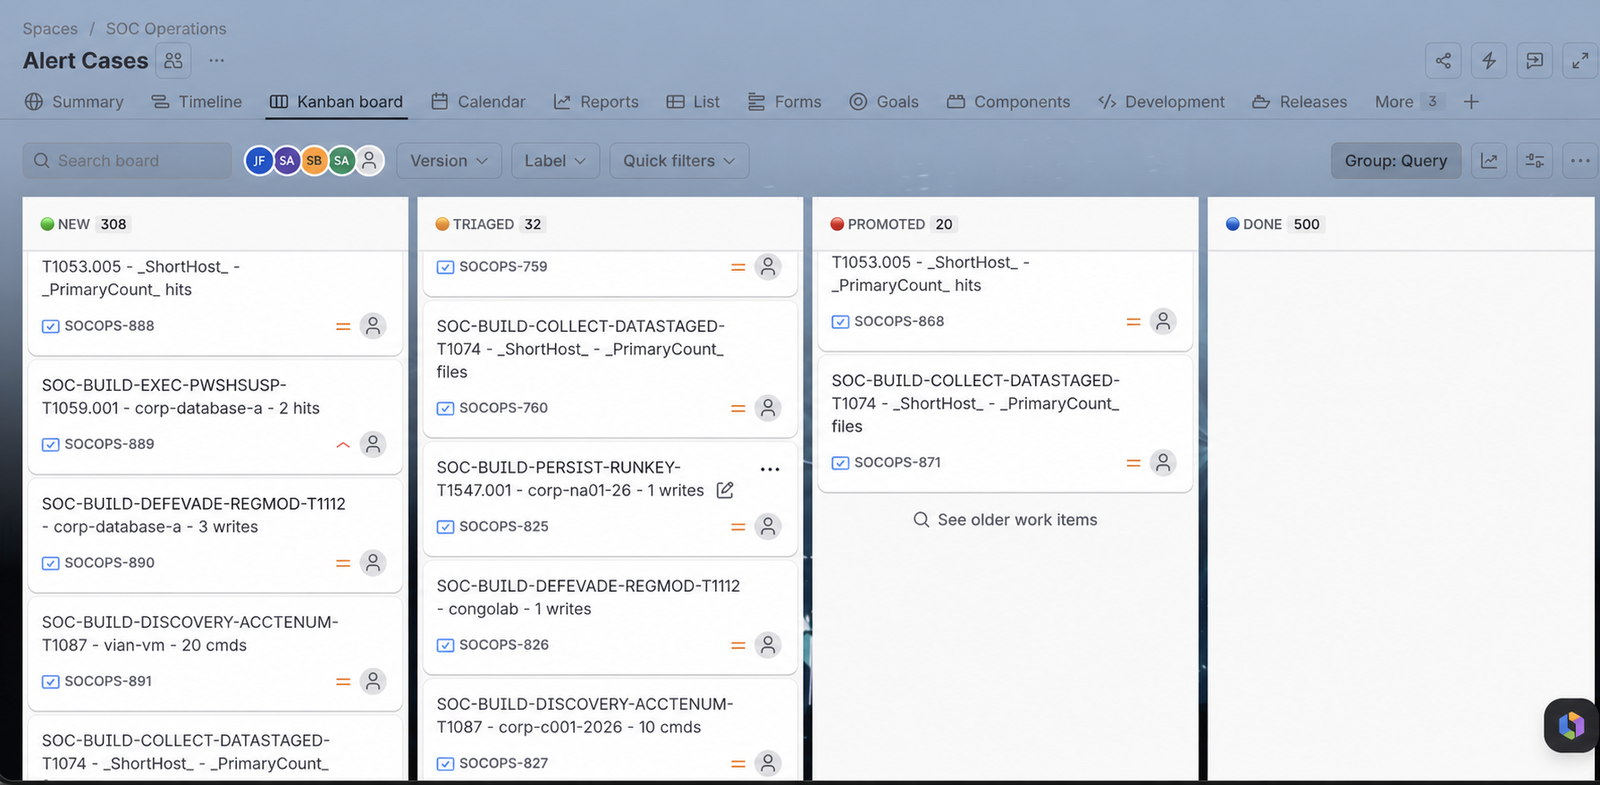
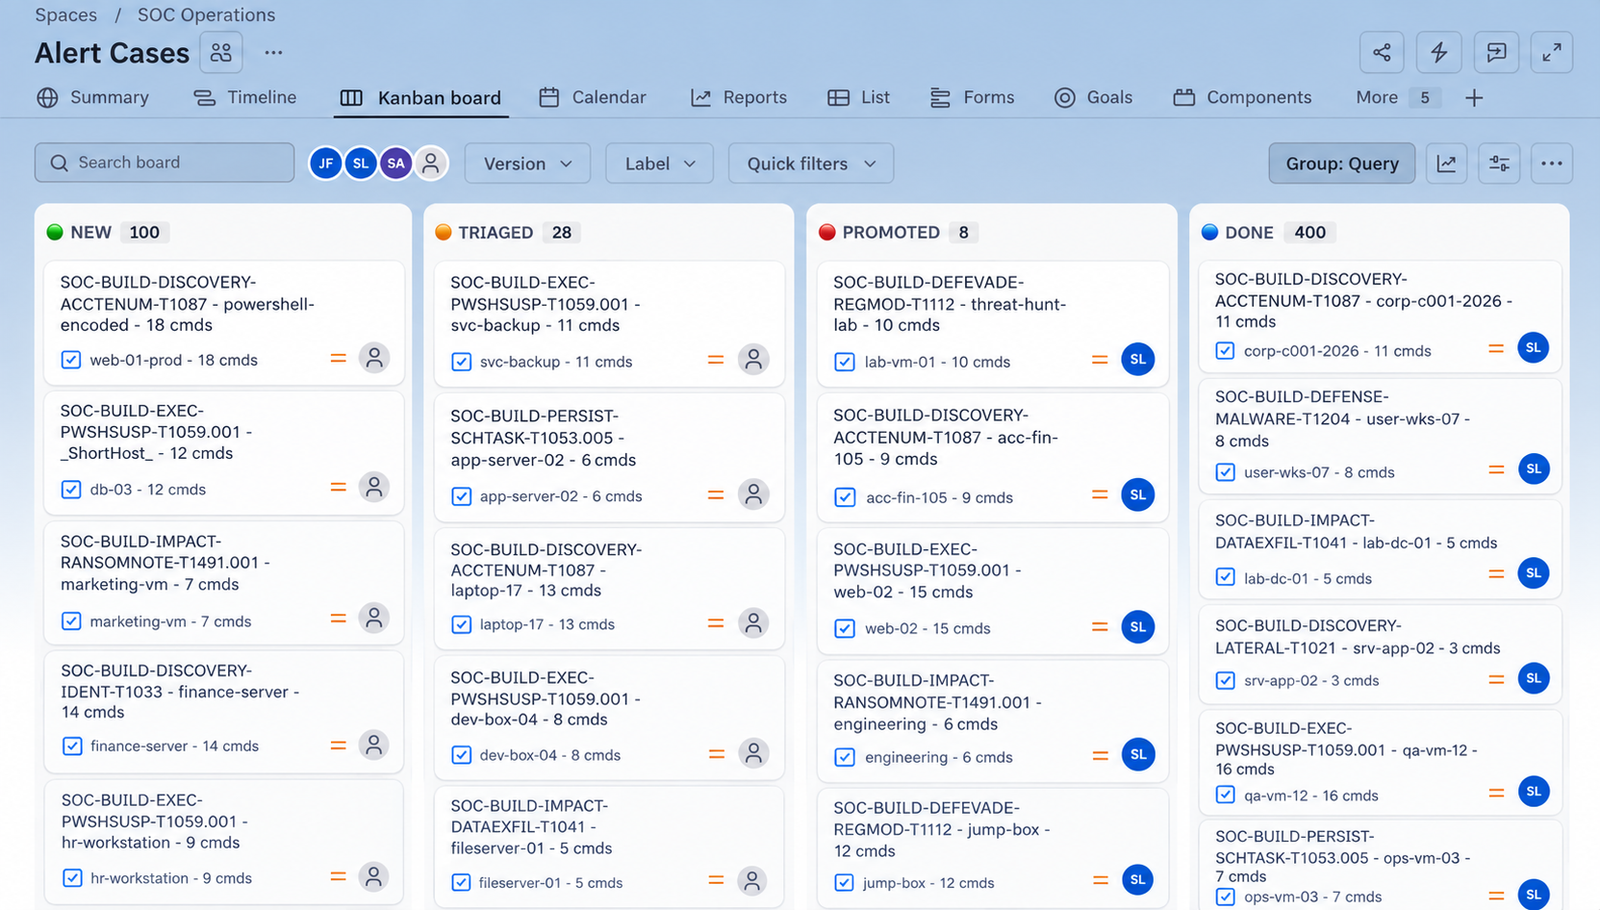
Use current SOCOPS board screenshot

diff --git a/README.md b/README.md
@@ -93,8 +93,8 @@ flowchart LR
 
 **4. The case enters the queue.** New tickets land in status New, in the Intake column of the SOCOPS board, and move through Triage, Investigation, Advisory, and Done.
 
-![Jira Alert Cases board with NEW, TRIAGED, PROMOTED and DONE columns](docs/images/03-jira-alert-case-queue.png)
-<sub>An earlier version of the alert case board, before its columns became Intake / Triage / Investigation / Advisory / Done. Some titles here still show unfilled fields (`_ShortHost_`, `_PrimaryCount_`); I traced that to the Logic App and detections not passing host and count values, and fixed both.</sub>
+![Jira Alert Cases board for the SOCOPS queue](docs/images/03-jira-alert-case-queue.png)
+<sub>The alert case queue on the SOCOPS board. One title still shows an unfilled field (`_ShortHost_`); I traced that to the Logic App and detections not passing host and count values, and fixed both.</sub>
 
 **5. An analyst investigates.** Tier 2 analysts follow a guided investigation that ends in a recommendation, not an action.
 
